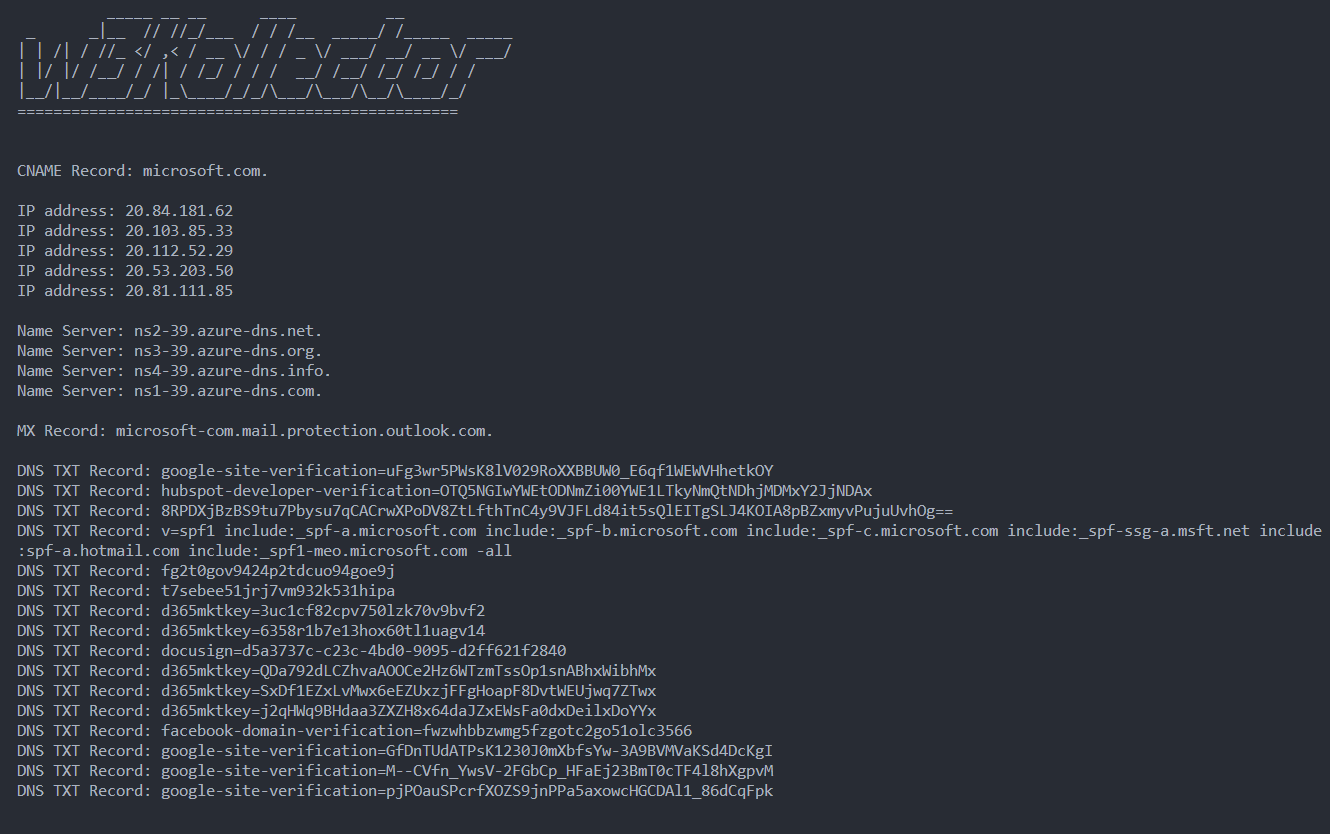
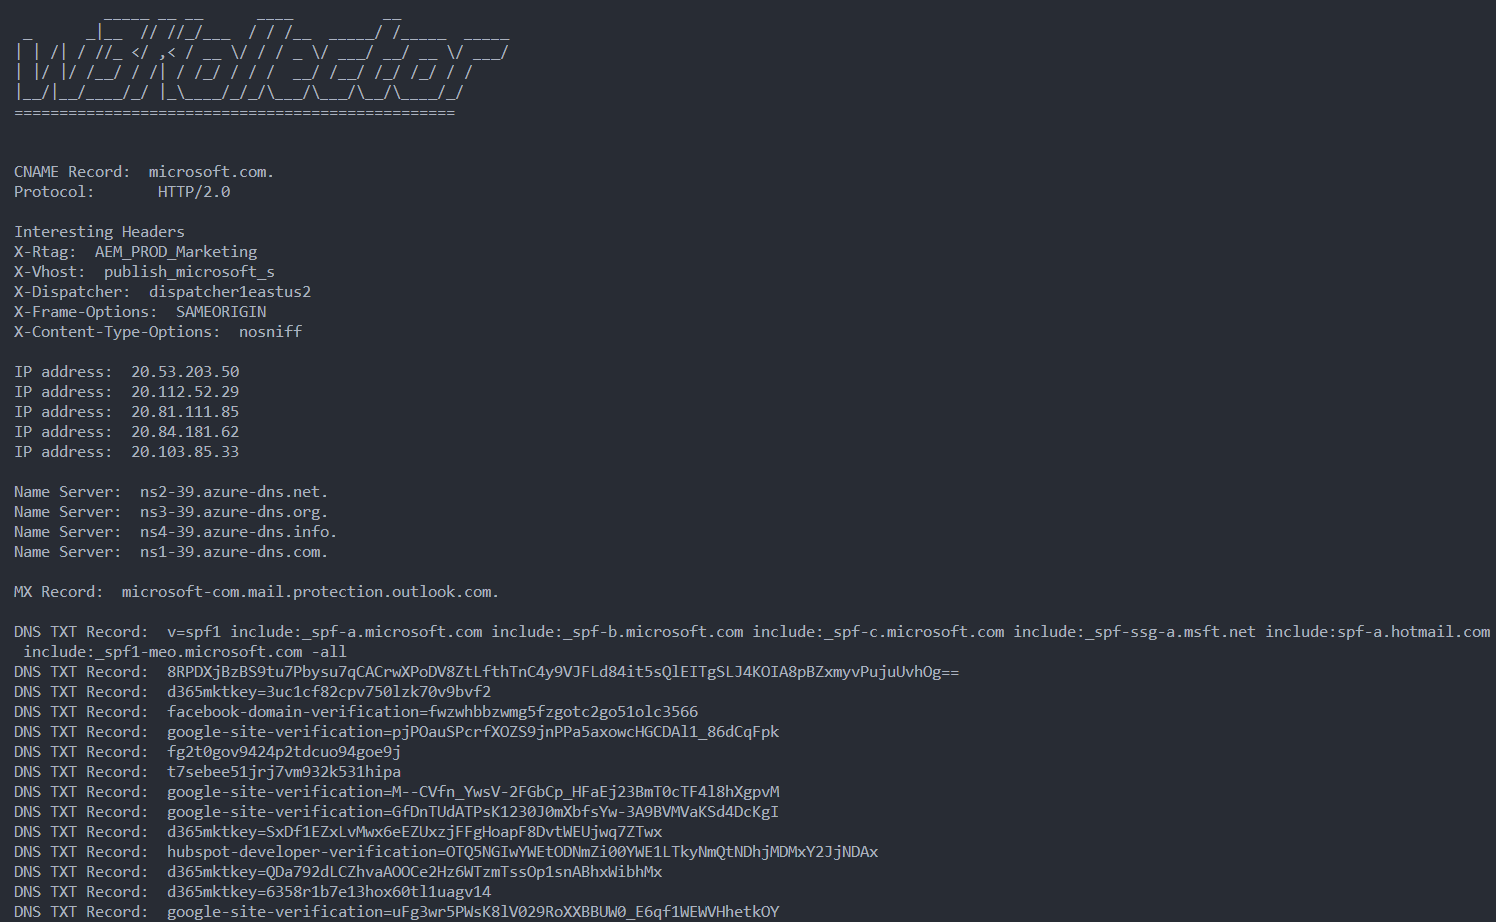
added http header scan to lookup command

diff --git a/lookup.go b/lookup.go
@@ -4,11 +4,14 @@ import (
 	"fmt"
 	"log"
 	"net"
+	"net/http"
+	"strings"
 )
 
 func lookupDomain(domain string) {
 	fmt.Println()
 	lookupCNAME(domain)
+	lookupHTTP(domain)
 	fmt.Println()
 	getIPs(domain)
 	fmt.Println()
@@ -25,7 +28,7 @@ func lookupDNSTXT(domain string) {
 		log.Fatal(err)
 	}
 	for _, record := range records {
-		fmt.Println("DNS TXT Record:", record)
+		fmt.Println("DNS TXT Record: ", record)
 	}
 }
 
@@ -34,7 +37,7 @@ func lookupCNAME(domain string) {
 	if err != nil {
 		log.Fatal(err)
 	}
-	fmt.Println("CNAME Record:", cname)
+	fmt.Println("CNAME Record: ", cname)
 }
 
 func getIPs(domain string) {
@@ -43,7 +46,7 @@ func getIPs(domain string) {
 		log.Fatal(err)
 	}
 	for _, ip := range ips {
-		fmt.Println("IP address:", ip)
+		fmt.Println("IP address: ", ip)
 	}
 }
 
@@ -53,7 +56,7 @@ func lookupNS(domain string) {
 		log.Fatal(err)
 	}
 	for _, record := range records {
-		fmt.Println("Name Server:", record.Host)
+		fmt.Println("Name Server: ", record.Host)
 	}
 }
 
@@ -63,6 +66,29 @@ func lookupMX(domain string) {
 		log.Fatal(err)
 	}
 	for _, mx := range mxs {
-		fmt.Println("MX Record:", mx.Host)
+		fmt.Println("MX Record: ", mx.Host)
+	}
+}
+
+func lookupHTTP(domain string) {
+	url := "https://" + domain
+	res, err := http.Get(url)
+	if err == nil {
+		serverHeader := res.Header.Get("server")
+		poweredBy := res.Header.Get("X-Powered-By")
+		fmt.Println("Protocol:\t" + res.Proto)
+		if len(serverHeader) > 0 {
+			fmt.Println("Server Engine: ", serverHeader)
+		}
+		if len(poweredBy) > 0 {
+			fmt.Println("Powered By: ", poweredBy)
+		}
+		fmt.Println()
+		fmt.Println("Interesting Headers")
+		for key := range res.Header {
+			if (strings.HasPrefix(key, "X-") || strings.HasPrefix(key, "x-")) && key != "X-Powered-By" {
+				fmt.Println(key+": ", res.Header.Get(key))
+			}
+		}
 	}
 }
